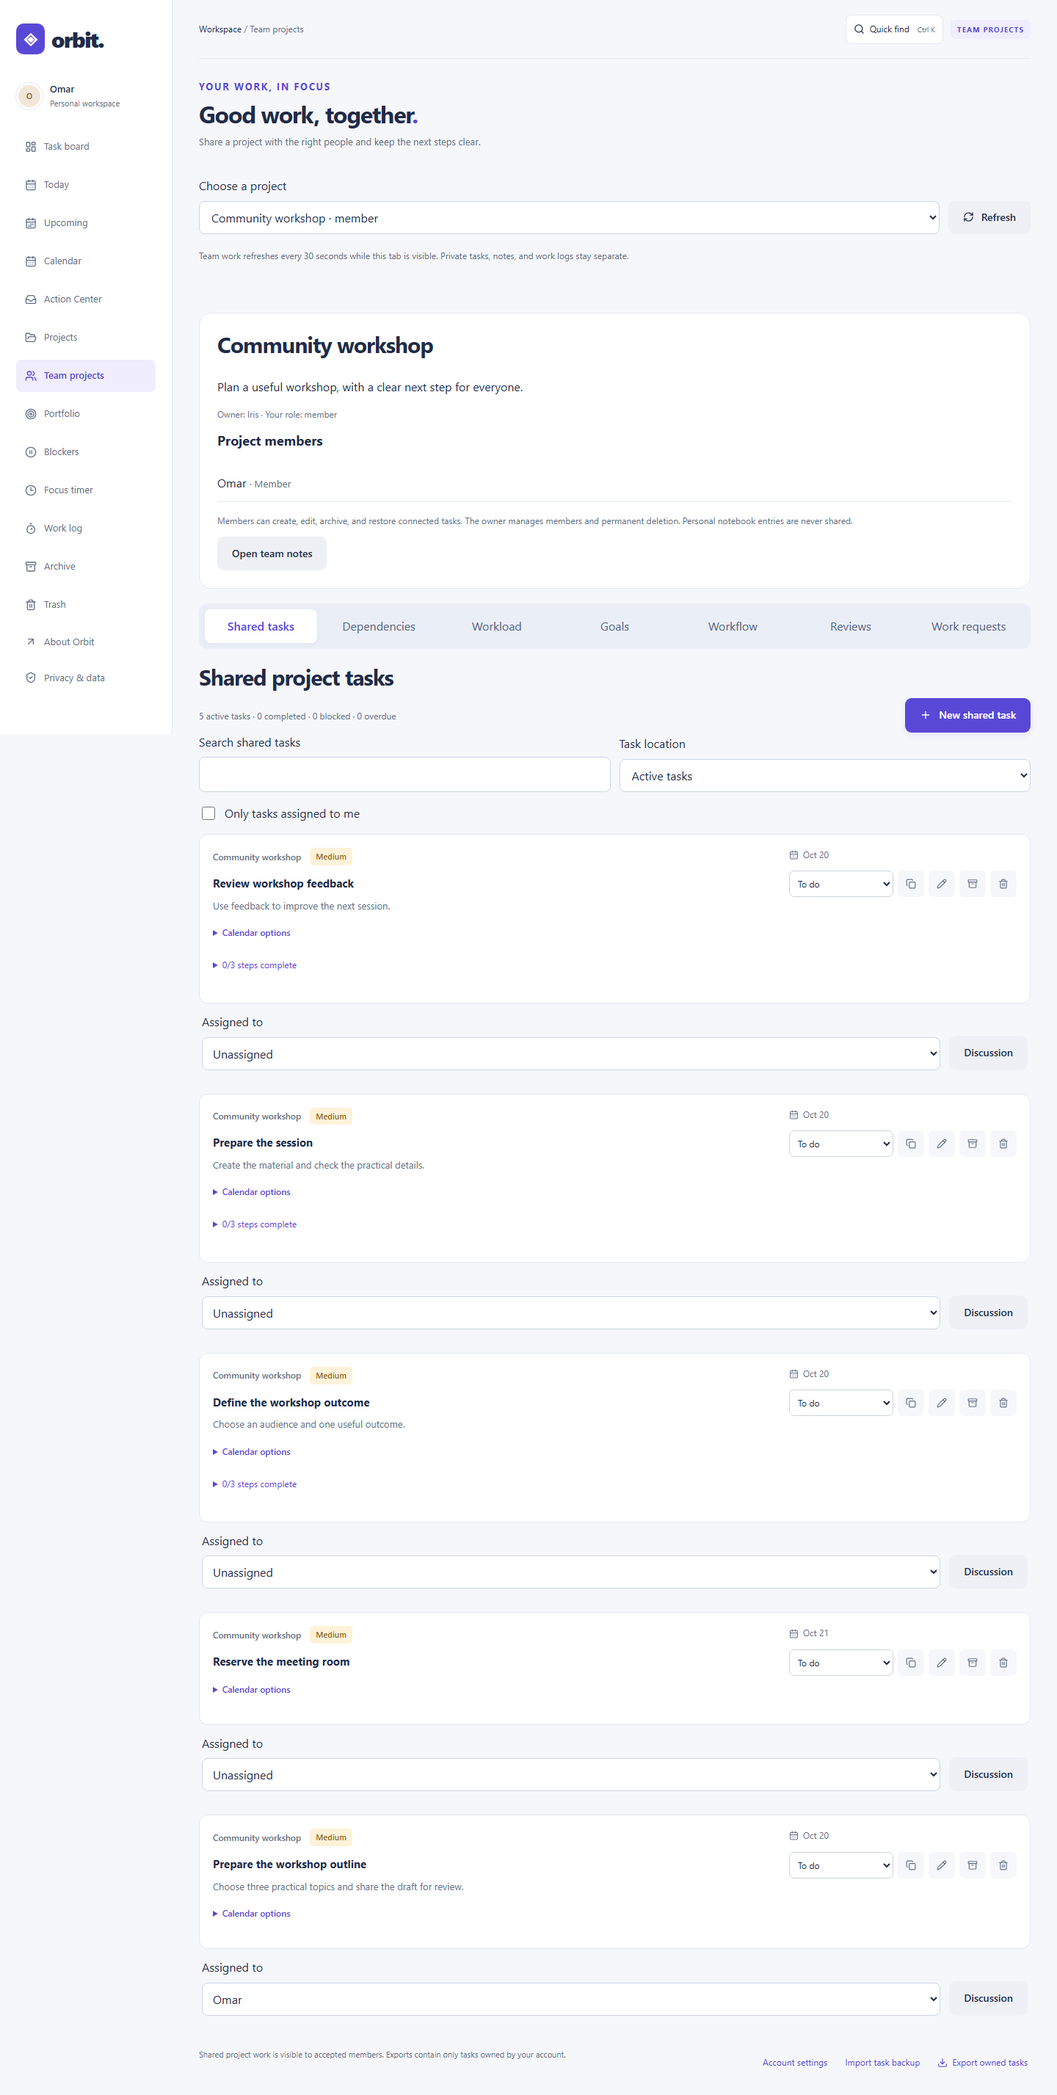
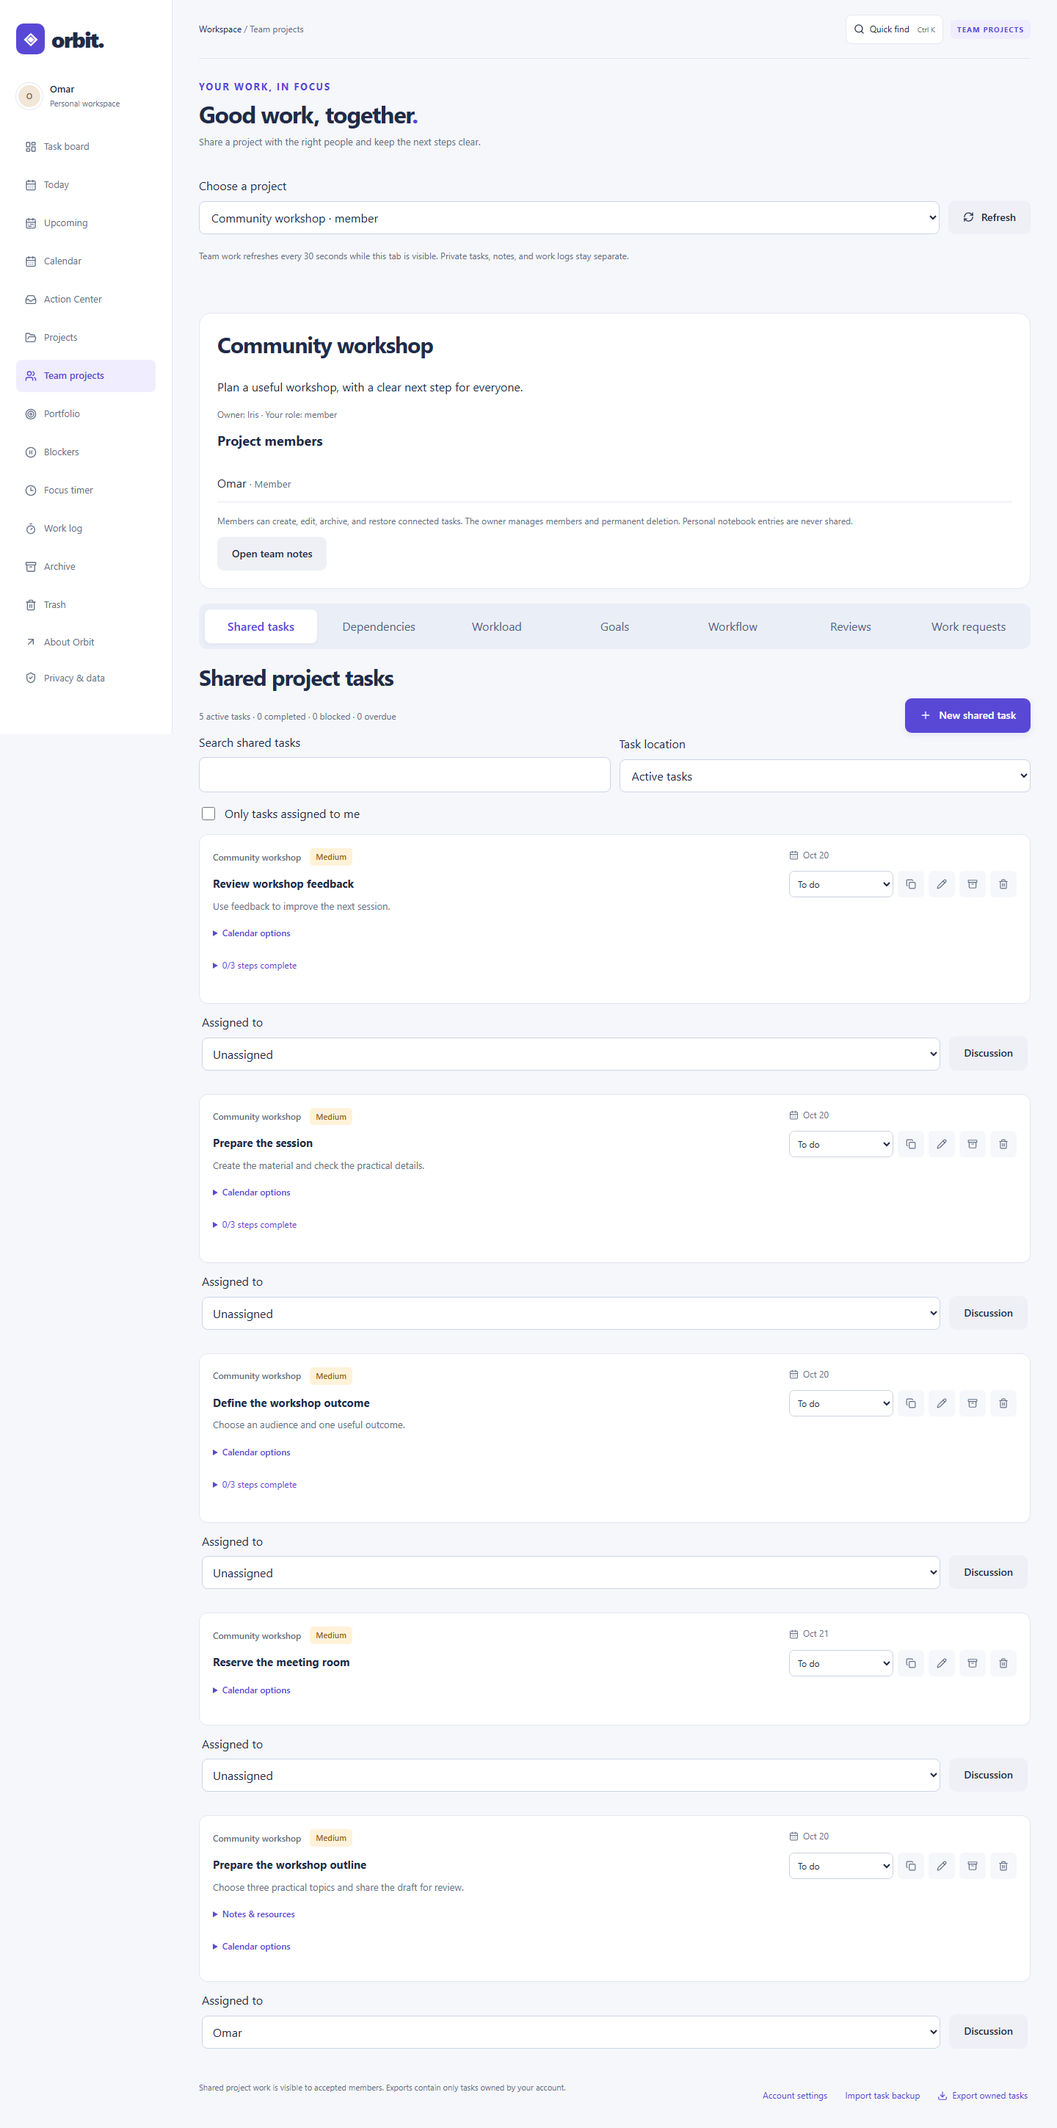
feat: capture document and design links in review requests

diff --git a/client/components/ProjectReviews.jsx b/client/components/ProjectReviews.jsx
@@ -1,7 +1,8 @@
 import { useEffect, useRef, useState } from 'react';
 import { request } from '../lib/api.js';
-// Reviews record a frozen title/description and never silently change a task's status.
+// Reviews capture the brief and optional resource URLs and never silently change a task's status.
 export default function ProjectReviews({ project, directory, tasks, onExpired }) {
+  const [includeResources, setIncludeResources] = useState(false);
   const [reviews, setReviews] = useState([]),
     [page, setPage] = useState(1),
     [status, setStatus] = useState('pending');
@@ -63,6 +64,7 @@ export default function ProjectReviews({ project, directory, tasks, onExpired })
         setTask('');
         setReviewer('');
         setMessage('');
+        setIncludeResources(false);
         setPage(1);
       }
       setResponses({});
@@ -79,14 +81,15 @@ export default function ProjectReviews({ project, directory, tasks, onExpired })
       <h2 id="reviews-heading">Review requests</h2>
       <p className="small muted">
         Record feedback on the task title and description captured when requested. Later
-        task edits do not update that snapshot. An approval does not mark the task
+        task edits do not update that snapshot. Optional resource links keep their saved
+        URLs, but external file contents may change. An approval does not mark the task
         complete or lock its edits.
       </p>
       <form
         className="review-request-form"
         onSubmit={(event) => {
           event.preventDefault();
-          mutate({ task, reviewer, message });
+          mutate({ task, reviewer, message, includeResources });
         }}
       >
         <label>
@@ -96,7 +99,10 @@ export default function ProjectReviews({ project, directory, tasks, onExpired })
             required
             value={task}
             disabled={busy}
-            onChange={(event) => setTask(event.target.value)}
+            onChange={(event) => {
+              setTask(event.target.value);
+              setIncludeResources(false);
+            }}
           >
             <option value="">Choose an active task on this page</option>
             {tasks
@@ -140,6 +146,20 @@ export default function ProjectReviews({ project, directory, tasks, onExpired })
             disabled={busy}
           />
         </label>
+
+        <label className="checkbox-label">
+          <input
+            type="checkbox"
+            checked={includeResources}
+            disabled={busy || !tasks.find((item) => item.id === task)?.links?.length}
+            onChange={(event) => setIncludeResources(event.target.checked)}
+          />
+          Include resource links in this review
+        </label>
+        <p className="small muted">
+          Add links in the task editor first. Reviewers open external resources
+          themselves; Orbit does not upload or verify the file contents.
+        </p>
         <button className="button" disabled={busy}>
           Request review
         </button>
@@ -192,7 +212,31 @@ export default function ProjectReviews({ project, directory, tasks, onExpired })
                   {item.requester?.name ?? 'Former account'} →{' '}
                   {item.reviewer?.name ?? 'Former account'} · {item.status}
                 </p>
+
                 {item.message && <p>{item.message}</p>}
+                {item.resources?.length > 0 && (
+                  <div>
+                    <strong>Resources captured for review</strong>
+                    <ul>
+                      {item.resources.map((resource, index) => (
+                        <li key={index}>
+                          <a
+                            href={resource.url}
+                            target="_blank"
+                            rel="noopener noreferrer"
+                          >
+                            {resource.label} ↗
+                          </a>
+                        </li>
+                      ))}
+                    </ul>
+                    <p className="small muted">
+                      URLs are captured at request time. Linked file contents are managed
+                      by their external provider.
+                    </p>
+                  </div>
+                )}
+
                 {item.response && (
                   <p>
                     <strong>Response:</strong> {item.response}

diff --git a/tests/api.test.js b/tests/api.test.js
@@ -3582,3 +3582,84 @@ test('targeted discussion notifications follow current task access and recipient
   await purgeAccount(member.id);
   assert.equal((await TaskComment.findOne({ task: task._id }).lean()).notified, null);
 });
+
+test('resource reviews capture safe task links and keep later file-link edits separate from decisions', async () => {
+  await RateBucket.deleteMany({});
+  const ownerAgent = request.agent(app),
+    reviewerAgent = request.agent(app),
+    outsiderAgent = request.agent(app);
+  const register = async (agent, name) =>
+    (
+      await agent
+        .post('/api/auth/register')
+        .set('Origin', origin)
+        .send({
+          name,
+          email: name + '@resource-review.example',
+          password: 'resource-review-long-passphrase',
+        })
+        .expect(201)
+    ).body.user;
+  const owner = await register(ownerAgent, 'ResourceOwner'),
+    reviewer = await register(reviewerAgent, 'ResourceReviewer');
+  await register(outsiderAgent, 'ResourceOutsider');
+  const project = await Project.create({
+    owner: owner.id,
+    name: 'Document review project',
+  });
+  await ProjectMember.create({
+    project: project._id,
+    user: reviewer.id,
+    status: 'active',
+  });
+  const task = await Task.create({
+    owner: owner.id,
+    projectId: project._id,
+    project: project.name,
+    title: 'Review delivery guide',
+  });
+  const endpoint = '/api/projects/' + project._id + '/reviews';
+  const submit = (body) => ownerAgent.post(endpoint).set('Origin', origin).send(body);
+  const draft = { task: String(task._id), reviewer: reviewer.id, includeResources: true };
+  await submit(draft).expect(400);
+  await submit({
+    ...draft,
+    resources: [{ label: 'Injected', url: 'javascript:alert(1)' }],
+  }).expect(400);
+  const resource = {
+    label: 'Delivery guide v1',
+    url: 'https://example.com/guide-v1.pdf',
+  };
+  await Task.updateOne(
+    { _id: task._id },
+    { $set: { links: [resource] } },
+    { runValidators: true },
+  );
+  await submit(draft).expect(201);
+  await Task.updateOne(
+    { _id: task._id },
+    { $set: { links: [{ label: 'Guide v2', url: 'https://example.com/guide-v2.pdf' }] } },
+    { runValidators: true },
+  );
+  const review = (await reviewerAgent.get(endpoint).expect(200)).body.reviews[0];
+  assert.deepEqual(review.resources, [resource]);
+  await outsiderAgent.get(endpoint).expect(404);
+  await ownerAgent
+    .patch(endpoint + '/' + review.id)
+    .set('Origin', origin)
+    .send({ action: 'approve' })
+    .expect(409);
+  await reviewerAgent
+    .patch(endpoint + '/' + review.id)
+    .set('Origin', origin)
+    .send({ action: 'approve', response: 'The captured guide link is ready.' })
+    .expect(204);
+  assert.equal((await Task.findById(task._id).lean()).status, 'todo');
+  const saved = (await ownerAgent.get(endpoint).expect(200)).body.reviews[0];
+  assert.equal(saved.status, 'approved');
+  assert.deepEqual(saved.resources, [resource]);
+  await submit({ task: String(task._id), reviewer: reviewer.id }).expect(201);
+  const pending = (await ownerAgent.get(endpoint + '?status=pending').expect(200)).body
+    .reviews[0];
+  assert.deepEqual(pending.resources, []);
+});

diff --git a/scripts/browser-test.js b/scripts/browser-test.js
@@ -1888,6 +1888,12 @@ try {
         title: 'Prepare the workshop outline',
         project: teamProject.name,
         description: 'Choose three practical topics and share the draft for review.',
+        links: [
+          {
+            label: 'Workshop outline document',
+            url: 'https://example.com/workshop-outline',
+          },
+        ],
         due: new Date(Date.now() + 7 * 86400000).toISOString().slice(0, 10),
       },
     });
@@ -2277,6 +2283,9 @@ try {
     await memberPage
       .getByLabel('What should they check?', { exact: true })
       .fill('Check that the topics are practical.');
+    await memberPage
+      .getByLabel('Include resource links in this review', { exact: true })
+      .check();
     await memberPage.getByRole('button', { name: 'Request review', exact: true }).click();
     await memberPage.getByText('Review requested.', { exact: true }).waitFor();
 
@@ -2293,6 +2302,12 @@ try {
       .getByRole('heading', { name: 'Review requests', exact: true })
       .waitFor();
     await ownerPage.getByRole('button', { name: 'Refresh reviews', exact: true }).click();
+    assert.equal(
+      await ownerPage
+        .getByRole('link', { name: 'Workshop outline document ↗', exact: true })
+        .getAttribute('href'),
+      'https://example.com/workshop-outline',
+    );
     await ownerPage.getByRole('button', { name: 'Approve', exact: true }).click();
     await ownerPage.getByText('Review decision saved.', { exact: true }).waitFor();
     await memberPage

diff --git a/server/routes/reviews.js b/server/routes/reviews.js
@@ -16,6 +16,7 @@ const requestSchema = z
     task: objectId,
     reviewer: objectId,
     message: z.string().trim().max(500).default(''),
+    includeResources: z.boolean().default(false),
   })
   .strict();
 const decisionSchema = z
@@ -54,6 +55,7 @@ reviewRouter.get('/', async (req, res) => {
       title: item.title,
       description: item.description,
       message: item.message,
+      resources: item.resources ?? [],
       requester: person(item.requester),
       reviewer: person(item.reviewer),
       status: item.status,
@@ -94,10 +96,19 @@ reviewRouter.post('/', async (req, res) => {
     lifecycle: { $in: ['active', null] },
   }).lean();
   if (!task) return res.status(404).json({ message: 'Active task not found.' });
+  if (data.includeResources && !task.links?.length)
+    return res.status(400).json({
+      message: 'Add resource links to the task before including them in a review.',
+    });
   await TaskReview.init();
   try {
     await TaskReview.create({
-      ...data,
+      task: data.task,
+      reviewer: data.reviewer,
+      message: data.message,
+      resources: data.includeResources
+        ? task.links.map(({ label, url }) => ({ label, url }))
+        : [],
       project: req.sharedProject._id,
       requester: req.user._id,
       title: task.title,

diff --git a/server/models/TaskReview.js b/server/models/TaskReview.js
@@ -1,4 +1,19 @@
+import { validResourceUrl } from '../../shared/task.js';
 import mongoose from 'mongoose';
+
+const resource = new mongoose.Schema(
+  {
+    label: { type: String, required: true, trim: true, maxlength: 100 },
+    url: {
+      type: String,
+      required: true,
+      trim: true,
+      maxlength: 2048,
+      validate: validResourceUrl,
+    },
+  },
+  { _id: false },
+);
 const schema = new mongoose.Schema(
   {
     project: { type: mongoose.Schema.Types.ObjectId, ref: 'Project', required: true },
@@ -7,6 +22,7 @@ const schema = new mongoose.Schema(
     reviewer: { type: mongoose.Schema.Types.ObjectId, ref: 'User', required: true },
     title: { type: String, required: true, maxlength: 120 },
     description: { type: String, maxlength: 1000, default: '' },
+    resources: { type: [resource], default: [], validate: (items) => items.length <= 8 },
     message: { type: String, maxlength: 500, default: '' },
     status: {
       type: String,

diff --git a/README.md b/README.md
@@ -65,6 +65,7 @@ Screenshots are from the working local demo using illustrative sample tasks.
 
 | Feature                   | What it solves                                                                                 |
 | ------------------------- | ---------------------------------------------------------------------------------------------- |
+| Resource reviews          | Capture task document/design links and record a designated reviewer’s feedback                 |
 | Discussion notifications  | Flag a comment for one teammate and acknowledge it in the work digest                          |
 | Public request forms      | Optional revocable links, account-free proposals, bounded submissions and private owner triage |
 | Portfolio and work digest | Compare owned/joined project health and act on urgent work, reviews, invitations and intake    |
@@ -258,7 +259,7 @@ npm run build
 npm run format:check
 ```
 
-**Verified locally:** 82 API/input/planning/timer/password/template/recovery/export/recurrence/project tests and Chromium browser flows covering demo CRUD, storage persistence, search, filters, safe text rendering, mobile overflow, dialog Escape, checklists, task duplication, template previews and replacement protection, list actions and pagination, blockers, archive/trash restoration, private downloads, daily views, overnight date changes, project progress, focus pause/refresh/completion, registration, database-backed persistence, logout, and login. Expanded checks cover whole-month calendar queries, leap years, Action Center rules, milestones, health explanations, command navigation, notebook decisions/meetings, follow-up drafts, weekly time totals, private APIs, and explicit legacy linking. Team checks cover invitation state transitions, cross-project isolation, removed/pending users, role restrictions, assignment eligibility, private/team note separation, discussion moderation, review decisions and inbox access. Browser tests exercise two separate authenticated accounts and team layouts at 320–1440px.
+**Verified locally:** 83 API/input/planning/timer/password/template/recovery/export/recurrence/project tests and Chromium browser flows covering demo CRUD, storage persistence, search, filters, safe text rendering, mobile overflow, dialog Escape, checklists, task duplication, template previews and replacement protection, list actions and pagination, blockers, archive/trash restoration, private downloads, daily views, overnight date changes, project progress, focus pause/refresh/completion, registration, database-backed persistence, logout, and login. Expanded checks cover whole-month calendar queries, leap years, Action Center rules, milestones, health explanations, command navigation, notebook decisions/meetings, follow-up drafts, weekly time totals, private APIs, and explicit legacy linking. Team checks cover invitation state transitions, cross-project isolation, removed/pending users, role restrictions, assignment eligibility, private/team note separation, discussion moderation, review decisions and inbox access. Browser tests exercise two separate authenticated accounts and team layouts at 320–1440px.
 
 For browser checks:
 

diff --git a/docs/PRODUCT_DIRECTION.md b/docs/PRODUCT_DIRECTION.md
@@ -81,7 +81,7 @@ The proposal, excluding AI assistance at the user's request, is authorized for i
 | 7. Time tracking                                                       | Local focus timer and persisted manual work logs/weekly timesheets implemented; billing integrations pending                                                                                                                        |
 | 8. Notifications and digest                                            | Implemented: invitations, targeted unread discussion notifications, review inbox and actionable in-app work digest; email/push delivery requires an external provider                                                               |
 | 9. Contextual team communication                                       | Implemented: paginated discussion, targeted teammate notifications, safe text and owner moderation; live sockets pending                                                                                                            |
-| 10. Approvals                                                          | Implemented: captured task briefs, designated reviewers, approval/change/cancel decisions; file approvals pending                                                                                                                   |
+| 10. Approvals                                                          | Implemented: captured briefs and optional resource-link approvals, designated reviewers, approval/change/cancel decisions; hosted binary versions are outside the bounded version                                                   |
 | 11. Blockers                                                           | Implemented: required reasons, dedicated view, and project counts                                                                                                                                                                   |
 | 12. Project health                                                     | Implemented: explained flags for blockers, overdue work, missed milestones, and planning conflicts                                                                                                                                  |
 | 13. Roles and permissions                                              | Owner/member/guest permissions implemented; guests use a separate restricted read-only portal                                                                                                                                       |

diff --git a/docs/API.md b/docs/API.md
@@ -221,3 +221,9 @@ Database-backed limits allow 60 form visits/hour/IP, 8 submission attempts/hour/
 POST /api/projects/:id/collaboration/:taskId/comments accepts optional notified: an owner/accepted-member user ID, or null. One other person can be notified per comment; self, guest, pending, revoked and foreign recipients are rejected. Comments remain plain text. The recipient's Portfolio digest shows unread notification/task summaries, without copying the comment body into the report.
 
 PATCH /collaboration/:taskId/comments/:commentId/read with {} acknowledges only a notification addressed to the current caller. Every request checks project membership and current task scope. Deleted or moved tasks/comments disappear from the digest; account deletion clears recipient references. The inbox is bounded to 30 unread active-task notifications and refreshes in a visible tab. This is in-app delivery; no email, push service or live socket is implied.
+
+### Resource-link approvals
+
+Review creation accepts optional includeResources: true. The server captures up to eight validated resource labels/URLs from the current scoped task; caller-supplied resources are rejected, and a task without resources cannot request a resource review. Listing returns the captured resources alongside the brief. The designated reviewer uses the normal approve/request-changes flow.
+
+Later task-link edits never replace a review snapshot. External file contents can change at the same URL; Orbit does not fetch, upload, fingerprint or lock those files. This records approval of the brief and linked resources presented for review, not an immutable binary-file version.

diff --git a/docs/TESTING.md b/docs/TESTING.md
@@ -182,3 +182,5 @@ Portfolio: open the Portfolio view in an owner and accepted-member account. Chec
 Public intake: enable a link as owner, open it in a private window without signing in, submit a name/alias and plain-text request, then accept it from Work requests. Verify the new task is created once, names are labeled unverified, and no project internals appear to the visitor. Replace/disable the link and confirm the old URL becomes unavailable. Check mobile layouts and invalid/changed retry payloads. Keep real sensitive information out of sample submissions.
 
 Discussion notifications: choose another accepted member in the optional Notify a teammate field, add a comment, and verify it appears in that person's Portfolio digest. Mark read and refresh; it must remain dismissed. A different member cannot acknowledge it. Revoke membership or move the task away and verify the notification disappears. Names/text must render safely, and guest recipients must be excluded.
+
+Resource review: add an HTTPS document/design link to a shared task, select the task in Reviews, check Include resource links, and request another member's review. Verify the captured link, safe new-tab attributes, and decision recording. Change the task link afterward; the review must retain the original URL. A brief-only request must capture no resources. Guests/foreign accounts must not access review resources.
